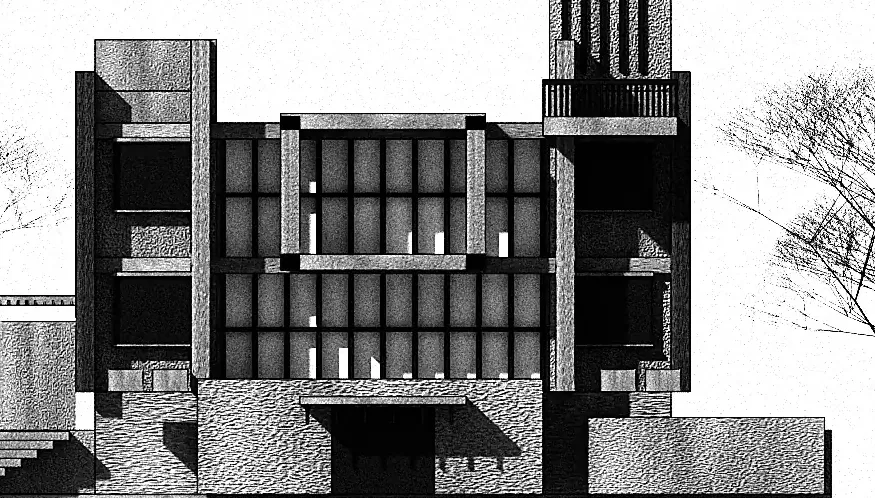
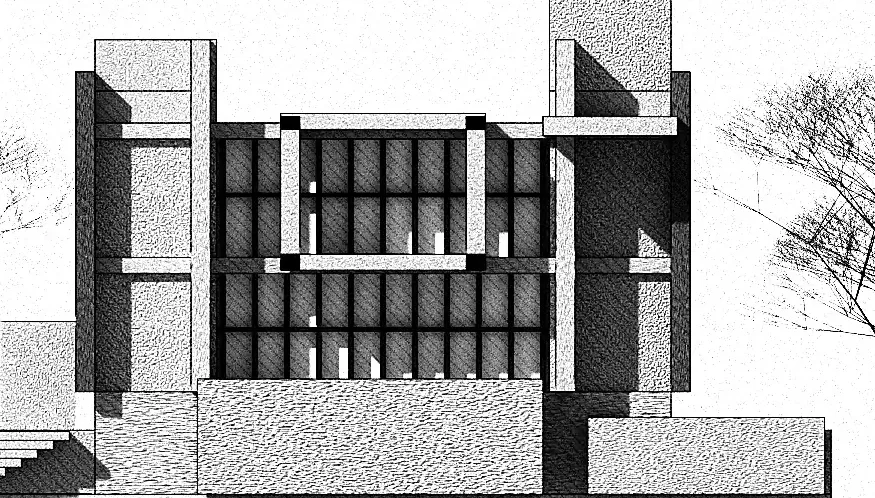
r368: hero hatching pass (hand-inked tone)

diff --git a/scripts/art/blender/README.md b/scripts/art/blender/README.md
@@ -4,3 +4,4 @@ Run: `blender -b -P hero.py -- /tmp/raw.png 1440 700 24` then `ink.sh /tmp/raw.p
 Output committed: `frontend/src/assets/art-v2/hero-elevation-bl.webp` (~190 KB, desktop only; phones keep the vector). Procedural scene, no imported assets, no image-generation API.
 Hero is rendered in two passes (1 CPU / 2GB sandbox): `hero.py ... bld` (building, Freestyle ink outlines) and `hero.py ... tree` (trees only), composited with `convert bld.png tree.png -compose Over -composite`, then `ink.sh`. A single pass with Freestyle over the trees crashes.
 plate.py accepts a trailing 'flat' arg for top-down plan renders (same licences).
+hatch.sh: diagonal hatching post-process for the hero (hero v6). Pipeline: hero.py bld+tree -> composite -> ink.sh -> hatch.sh.

diff --git a/docs/redesign/r368/LEDGER.md b/docs/redesign/r368/LEDGER.md
@@ -166,3 +166,4 @@ NEXT: origin/main sync ~9:50pm; remaining gaps 06 layout, hero photo look, no-co
 - r368 cross-slice analyze (12:04 AM): 06 gets a third plate; 404/about keep the duotone photo (reference shows photo scenes in the use-case band, so no evidence to swap). 07 plate richness still open. All 22 FAILING.
 - r368 plates v3: clipped 45-degree poche hatching, chairs, door swings in plate.py flat mode. NEXT: sync, analyze.
 - r368 plates v4: campus hatch on all blocks, lighter admin poche, jittered hand-drawn hatching.
+- r368 hero v6: tonal hatching pass (hatch.sh), mobile crop regenerated. NEXT: statement band.
